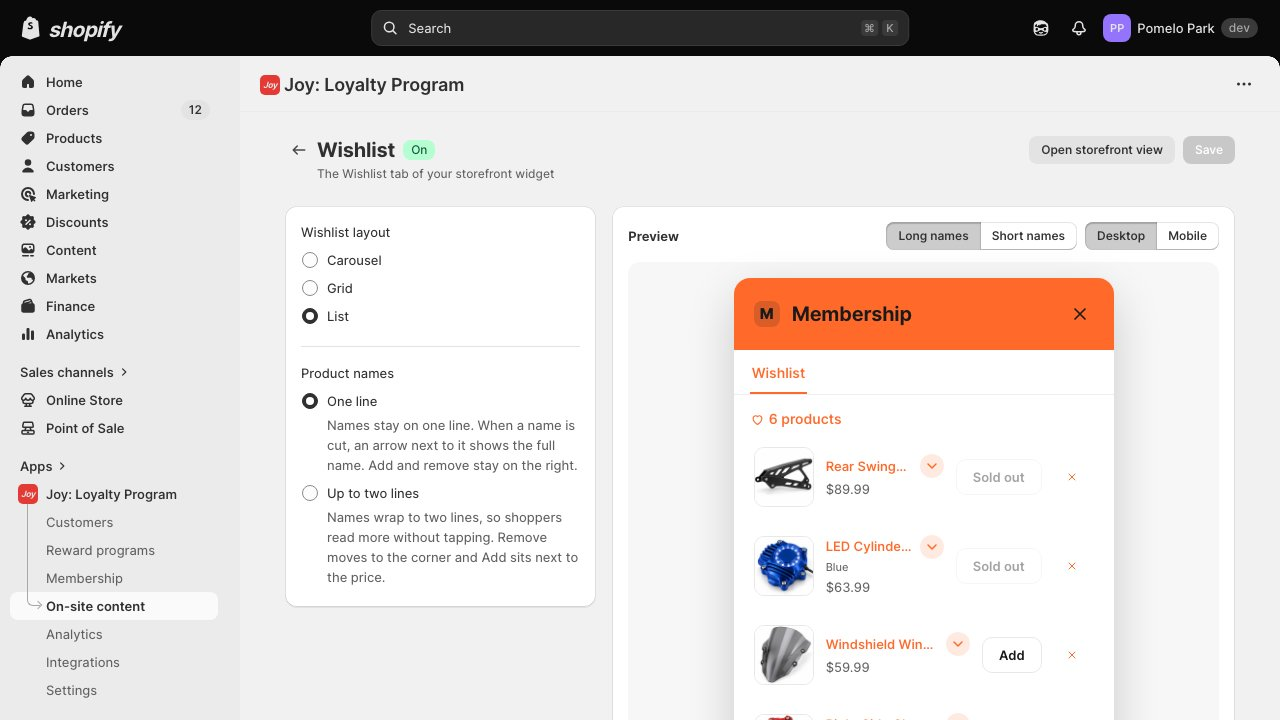
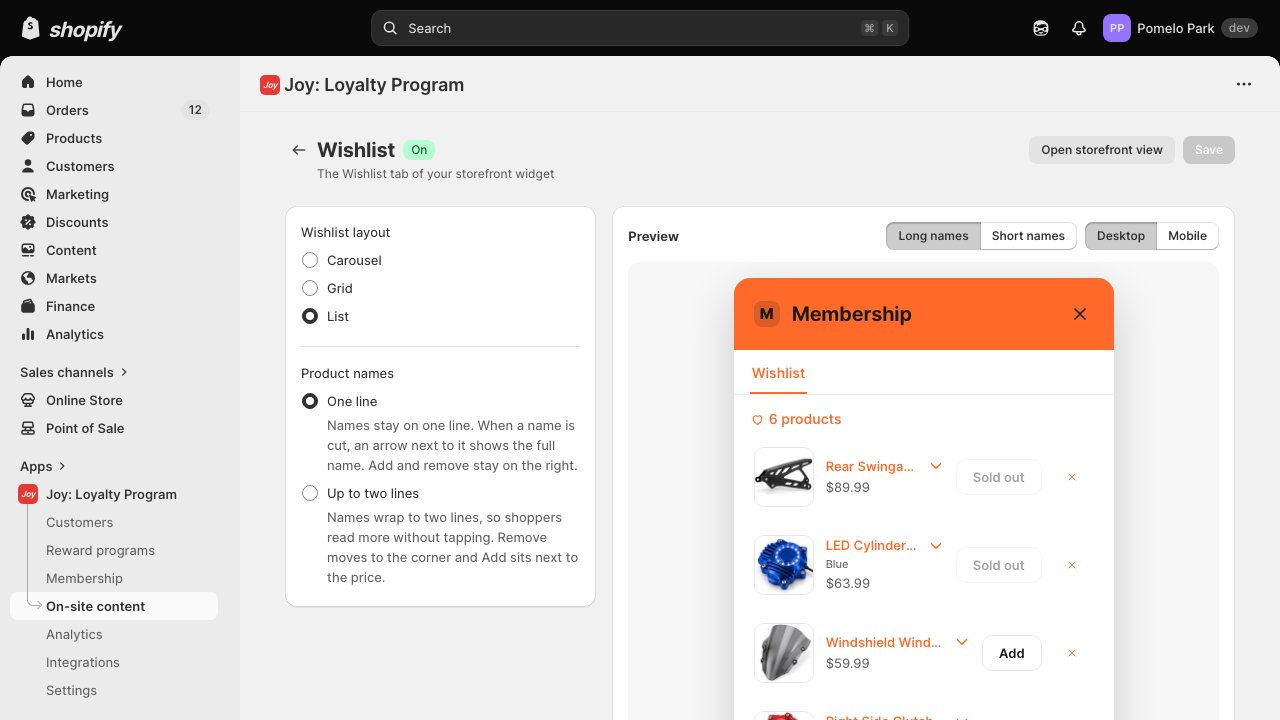
Expand arrow = brand chevron, no background (owner pick); drop the other two looks
Chevron in the widget brand colour, 18px icon in a 32x32 touch area, no fill.
The reviewer "Arrow look" switch is gone with the two rejected looks.

diff --git a/demos/wishlist-title-expand/src/widget/WishlistWidget.jsx b/demos/wishlist-title-expand/src/widget/WishlistWidget.jsx
@@ -38,18 +38,17 @@ function Heart() {
   );
 }
 
-/** The arrow next to a cut name. Three looks, picked from the reviewer bar; 'tint' is the proposal. */
-function ExpandButton({open, onToggle, look, controls, name}) {
+/** The arrow next to a cut name: brand-coloured chevron, no background, 18px icon in a 32×32 touch area. */
+function ExpandButton({open, onToggle, controls, name}) {
   return (
     <button
       type="button"
-      className={cx('jw-expand', `jw-expand--${look}`, open && 'is-open')}
+      className={cx('jw-expand', open && 'is-open')}
       aria-expanded={open}
       aria-controls={controls}
       aria-label={open ? `Show less of ${name}` : `Show full name: ${name}`}
       onClick={onToggle}
     >
-      {look === 'text' ? <span className="jw-expand__word">{open ? 'Less' : 'More'}</span> : null}
       <Chevron />
     </button>
   );
@@ -96,7 +95,7 @@ function AddButton({item, added, onAdd, compact}) {
   );
 }
 
-function Row({item, rowStyle, look, open, onToggle, added, onAdd, onRemove, onOpenProduct}) {
+function Row({item, rowStyle, open, onToggle, added, onAdd, onRemove, onOpenProduct}) {
   const nameRef = useRef(null);
   // Measure the name while it is closed; once open it stays "cut" so the arrow is there to close it again.
   const cut = useIsCut(nameRef, [item.title, rowStyle, open]);
@@ -153,7 +152,7 @@ function Row({item, rowStyle, look, open, onToggle, added, onAdd, onRemove, onOp
       <div className="jw-info">
         <div className="jw-nameline">
           {name}
-          {showArrow ? <ExpandButton open={open} onToggle={onToggle} look={look} controls={nameId} name={item.title} /> : null}
+          {showArrow ? <ExpandButton open={open} onToggle={onToggle} controls={nameId} name={item.title} /> : null}
         </div>
         {variant}
         <Prices item={item} />
@@ -184,10 +183,10 @@ function Skeleton() {
 }
 
 /**
- * items: wishlist rows · rowStyle: 'one-line' | 'two-lines' · look: arrow style · device: 'mobile' | 'desktop'
+ * items: wishlist rows · rowStyle: 'one-line' | 'two-lines' · device: 'mobile' | 'desktop'
  * status: 'ready' | 'loading' | 'error' · onNotify(text): toast from the host page · onClose: header × (optional)
  */
-export function WishlistWidget({shop, items, rowStyle, look = 'tint', device, status = 'ready', onNotify, onRetry, onRemove, onClose}) {
+export function WishlistWidget({shop, items, rowStyle, device, status = 'ready', onNotify, onRetry, onRemove, onClose}) {
   const [openIds, setOpenIds] = useState(() => new Set());
   const [addedIds, setAddedIds] = useState(() => new Set());
 
@@ -239,7 +238,6 @@ export function WishlistWidget({shop, items, rowStyle, look = 'tint', device, st
               key={item.id}
               item={item}
               rowStyle={rowStyle}
-              look={look}
               open={openIds.has(item.id)}
               onToggle={() => toggle(item.id)}
               added={addedIds.has(item.id)}

diff --git a/demos/wishlist-title-expand/src/pages/Storefront.jsx b/demos/wishlist-title-expand/src/pages/Storefront.jsx
@@ -1,5 +1,5 @@
 // What the shopper sees: the storefront with the Joy widget open on the Wishlist tab.
-// The amber bar is for reviewers only (shop, name setting, device, arrow look); it is not part of the product.
+// The amber bar is for reviewers only (shop, name setting, device); it is not part of the product.
 import React, {useState} from 'react';
 import {useShell} from '../shell/ShellContext.jsx';
 import {useScenario} from '../kit/scenario.jsx';
@@ -7,12 +7,6 @@ import {useSettings} from '../state/settings.jsx';
 import {SHOPS} from '../data/wishlist.js';
 import {WishlistWidget} from '../widget/WishlistWidget.jsx';
 import {useWishlistItems} from '../widget/useWishlistItems.js';
-
-const LOOKS = [
-  {value: 'tint', label: 'Tinted circle (proposed)'},
-  {value: 'outline', label: 'Outline circle'},
-  {value: 'text', label: 'Word “More”'},
-];
 
 function Segmented({label, value, options, onChange}) {
   return (
@@ -32,7 +26,7 @@ function Segmented({label, value, options, onChange}) {
 
 function readQuery() {
   const q = new URLSearchParams(window.location.hash.split('?').slice(1).join('?'));
-  return {shop: q.get('shop'), rows: q.get('rows'), device: q.get('device'), look: q.get('look')};
+  return {shop: q.get('shop'), rows: q.get('rows'), device: q.get('device')};
 }
 
 export function Storefront() {
@@ -43,7 +37,6 @@ export function Storefront() {
   const [shopId, setShopId] = useState(SHOPS[q.shop] ? q.shop : 'moto');
   const [rowStyle, setRowStyle] = useState(['one-line', 'two-lines'].includes(q.rows) ? q.rows : settings.rowStyle);
   const [device, setDevice] = useState(['mobile', 'desktop'].includes(q.device) ? q.device : window.innerWidth < 760 ? 'mobile' : 'desktop');
-  const [look, setLook] = useState(LOOKS.some((l) => l.value === q.look) ? q.look : 'tint');
   const {items, status, remove, reset} = useWishlistItems(shopId, state);
   const shop = SHOPS[shopId];
 
@@ -75,7 +68,6 @@ export function Storefront() {
               {value: 'desktop', label: 'Desktop popup'},
             ]}
           />
-          {rowStyle === 'one-line' ? <Segmented label="Arrow look" value={look} onChange={setLook} options={LOOKS} /> : null}
         </div>
       </details>
 
@@ -103,7 +95,6 @@ export function Storefront() {
             items={items}
             status={status}
             rowStyle={rowStyle}
-            look={look}
             device={device}
             onNotify={(t) => notify(t)}
             onRetry={reset}

diff --git a/demos/wishlist-title-expand/src/widget/widget.css b/demos/wishlist-title-expand/src/widget/widget.css
@@ -165,7 +165,7 @@
 .jw-nameline {
   display: flex;
   align-items: center;
-  gap: 6px;
+  gap: 2px;
   min-width: 0;
 }
 
@@ -321,79 +321,33 @@
 }
 
 /* ---------------------------------------------------------------- expand arrow
-   24px visual, 32px touch area (the ::after ring), kept 6px clear of the name so a tap on the arrow never lands
-   on the product link. Colour = the widget brand; no grey box. */
+   Chevron in the widget brand colour, no background: 18px icon centred in a 32×32 touch area. The negative
+   margins keep the 32px box from making the row taller; the box starts right after the last letter, so a tap on
+   the arrow never lands on the product link. */
 .jw-expand {
-  position: relative;
-  flex-shrink: 0;
-  display: inline-flex;
-  align-items: center;
-  justify-content: center;
-  gap: 2px;
-  height: 24px;
-  min-width: 24px;
+  flex: none;
+  width: 32px;
+  height: 32px;
+  margin: -7px -8px -7px 0;
   padding: 0;
   border: 0;
   border-radius: 999px;
-  color: var(--jw-brand);
   background: transparent;
+  color: var(--jw-brand);
+  display: inline-flex;
+  align-items: center;
+  justify-content: center;
   cursor: pointer;
-  transition: background 120ms ease, transform 160ms ease;
-}
-
-.jw-row.is-open .jw-expand {
-  margin-top: -2px;
-}
-
-.jw-expand::after {
-  content: '';
-  position: absolute;
-  inset: -4px;
-  border-radius: 999px;
 }
 
 .jw-expand svg {
-  width: 16px;
-  height: 16px;
-  transition: transform 180ms ease;
+  width: 18px;
+  height: 18px;
+  transition: transform 160ms ease;
 }
 
 .jw-expand.is-open svg {
   transform: rotate(180deg);
-}
-
-.jw-expand--tint {
-  width: 24px;
-  background: var(--jw-brand-soft);
-}
-
-.jw-expand--tint:hover {
-  background: color-mix(in srgb, var(--jw-brand) 24%, transparent);
-}
-
-.jw-expand--outline {
-  width: 24px;
-  box-shadow: inset 0 0 0 1.5px var(--jw-brand);
-}
-
-.jw-expand--outline:hover {
-  background: var(--jw-brand-soft);
-}
-
-.jw-expand--text {
-  padding: 0 4px 0 6px;
-  font: 600 11px/1 'Inter', sans-serif;
-  letter-spacing: 0.01em;
-}
-
-.jw-expand--text:hover .jw-expand__word {
-  text-decoration: underline;
-  text-underline-offset: 2px;
-}
-
-.jw-expand--text svg {
-  width: 14px;
-  height: 14px;
 }
 
 .jw :is(a, button):focus-visible {
@@ -482,7 +436,6 @@
 
 @media (prefers-reduced-motion: reduce) {
   .jw-skel,
-  .jw-expand,
   .jw-expand svg {
     animation: none;
     transition: none;
